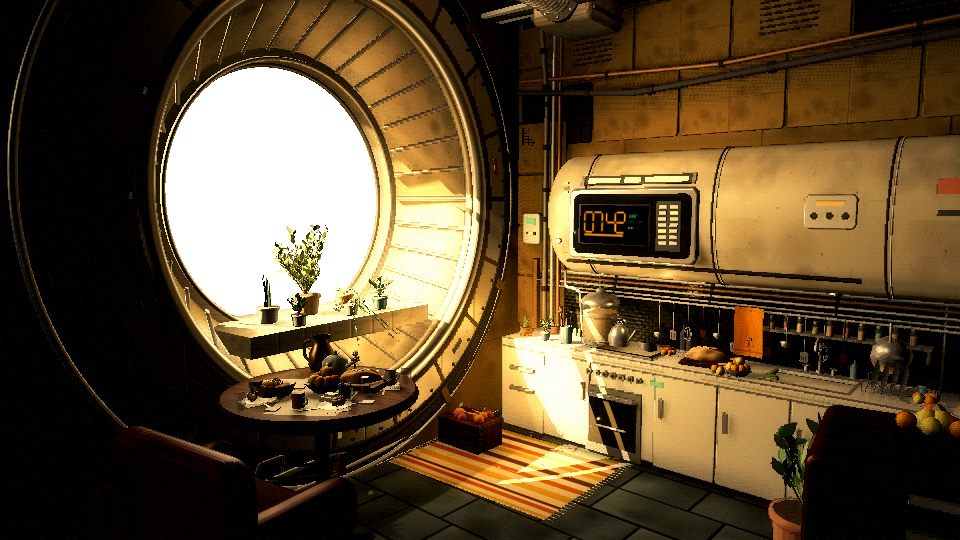
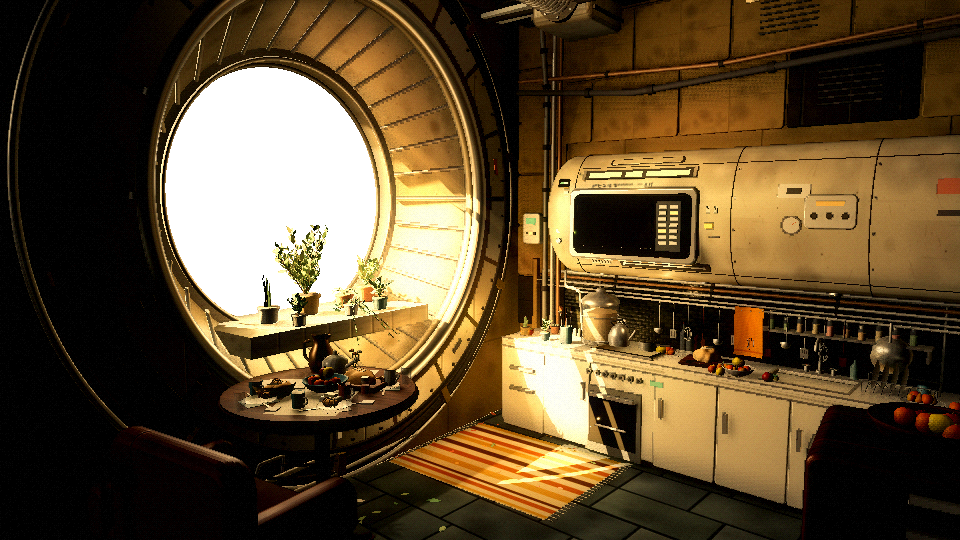
Title kitchen: real fruit, the reference's capsule panelling, blank screen, tidier floor
- Fruit: seven kinds (apple, pear, red pear, orange, lemon, pomegranate, mango) turned
  from real profiles (dimples, necks, crowns) with painted skins: blush, streaks,
  lenticels, pores and matching bump; stems, calyxes, the odd leaf. Bowls have walls.
- The capsule after the reference: seams on the curved skin, a hatch over the light bar,
  printed labels between bar and window, a recessed grip with a chrome bar in place of the
  long black slot, a vent grille, toggle switches, an orange push lamp, a lever, a round
  gauge, screws and plates. The oven screen is dark and blank.
- The potted bush moved from the floor to the window sill; the crate at the window's foot
  is gone. A 'bowl' close-up view for checking fruit.

Claude-Session: https://claude.ai/code/session_01AoroHLwCxsbXvPU1t255na

diff --git a/tools/title/kitchen.js b/tools/title/kitchen.js
@@ -122,6 +122,41 @@ const ROOM = (() => {
     for (let i = 0; i < 6; i++){ g.fillStyle = i < 2 ? '#7fd38a' : 'rgba(127,211,138,.2)'; g.fillRect(370 + i*20, 140, 12, 12); }
     for (let y = 0; y < 256; y += 3){ g.fillStyle = 'rgba(0,0,0,.18)'; g.fillRect(0, y, 512, 1); }
     const t = new C.CanvasTexture(c); t.encoding = C.sRGBEncoding; return t; })();
+  // fruit skins, drawn with their own random source (so adding them doesn't reshuffle the room): colour, blush, streaks,
+  // lenticels and pores, each with a matching height map for the bump. Canvas top is the fruit's top (stem end).
+  const FR = (() => { let q = 7; return () => (q = (q*16807) % 2147483647)/2147483647; })(), fr = (a, b) => a + FR()*(b - a);
+  function skin(kind){
+    const w = 512, h = 512, cc = document.createElement('canvas'), hc = document.createElement('canvas'); cc.width = hc.width = w; cc.height = hc.height = h;
+    const g = cc.getContext('2d'), gh = hc.getContext('2d'); gh.fillStyle = '#808080'; gh.fillRect(0, 0, w, h);
+    const band = (n, f) => { const ph = [fr(0, 6.3), fr(0, 6.3), fr(0, 6.3)]; return x => { const u = x/w*Math.PI*2; return Math.max(0, Math.min(1, .5 + .5*(Math.sin(u + ph[0]) + .5*Math.sin(2*u + ph[1]) + .3*Math.sin(3*u + ph[2]))*f)); }; };
+    const vgrad = (stops) => { const lg = g.createLinearGradient(0, 0, 0, h); for (const [t, c] of stops) lg.addColorStop(t, c); g.fillStyle = lg; g.fillRect(0, 0, w, h); };
+    const streaks = (col, amt, n, wmin, wmax) => { for (let i = 0; i < n; i++){ const x = fr(0, w), a = amt(x); if (a < .05) continue; g.strokeStyle = col(a*fr(.6, 1)); g.lineWidth = fr(wmin, wmax); g.beginPath(); g.moveTo(x, fr(0, h*.15)); g.bezierCurveTo(x + fr(-8, 8), h*.4, x + fr(-8, 8), h*.7, x + fr(-6, 6), fr(h*.85, h)); g.stroke(); } };
+    const dots = (n, col, r0, r1, bump, y0 = 0, y1 = 1) => { for (let i = 0; i < n; i++){ const x = fr(0, w), y = fr(y0*h, y1*h), r = fr(r0, r1); g.fillStyle = col; g.beginPath(); g.ellipse(x, y, r, r*fr(.6, 1), 0, 0, 7); g.fill(); if (bump){ gh.fillStyle = bump; gh.beginPath(); gh.arc(x, y, r*1.1, 0, 7); gh.fill(); } } };
+    const blotch = (n, col, r0, r1) => { for (let i = 0; i < n; i++){ const x = fr(0, w), y = fr(0, h), r = fr(r0, r1), gr = g.createRadialGradient(x, y, 0, x, y, r); gr.addColorStop(0, col); gr.addColorStop(1, 'rgba(0,0,0,0)'); g.fillStyle = gr; g.fillRect(x - r, y - r, 2*r, 2*r); } };
+    let rough = .45;
+    if (kind === 'apple'){ const red = band(1, 1.3);
+      vgrad([[0, '#c9b04a'], [.3, '#d8c060'], [1, '#c8a848']]);
+      for (let x = 0; x < w; x += 2){ g.fillStyle = 'rgba(186,48,28,' + (red(x)*.9).toFixed(3) + ')'; g.fillRect(x, 0, 2, h); }
+      streaks(a => 'rgba(150,24,14,' + (a*.35).toFixed(3) + ')', red, 140, .6, 2.5); blotch(16, 'rgba(120,20,10,.18)', 20, 70); streaks(a => 'rgba(230,190,80,' + ((1 - a)*.3).toFixed(3) + ')', x => 1 - red(x), 80, 1, 3);
+      vgrad([[0, 'rgba(210,190,80,.75)'], [.14, 'rgba(210,190,80,0)'], [.9, 'rgba(120,80,30,0)'], [1, 'rgba(120,80,30,.5)']]);
+      dots(260, 'rgba(240,220,150,.85)', .8, 1.8, '#9a9a9a', .1, .95); rough = .32; }
+    else if (kind === 'pear'){ const blush = band(1, .9);
+      vgrad([[0, '#a8a040'], [.5, '#cdbb58'], [1, '#c8a850']]);
+      for (let x = 0; x < w; x += 2){ g.fillStyle = 'rgba(196,90,50,' + (blush(x)*.55).toFixed(3) + ')'; g.fillRect(x, 0, 2, h); }
+      blotch(14, 'rgba(140,100,40,.25)', 10, 40); dots(900, 'rgba(110,80,40,.5)', .6, 1.4, '#909090'); dots(30, 'rgba(90,60,30,.6)', 2, 4, '#707070'); rough = .55; }
+    else if (kind === 'redpear'){ vgrad([[0, '#7a1a14'], [.5, '#a8281c'], [1, '#8e2018']]); streaks(a => 'rgba(200,90,50,' + (a*.25).toFixed(3) + ')', band(1, 1), 160, 1, 3); dots(500, 'rgba(220,170,120,.45)', .6, 1.3, '#909090'); rough = .38; }
+    else if (kind === 'orange'){ vgrad([[0, '#d8620c'], [.5, '#ec7a14'], [1, '#d86810']]); blotch(20, 'rgba(255,170,60,.18)', 20, 60); blotch(10, 'rgba(160,60,10,.15)', 20, 50);
+      for (let i = 0; i < 9000; i++){ const x = fr(0, w), y = fr(0, h); gh.fillStyle = FR() < .5 ? '#5a5a5a' : '#a0a0a0'; gh.fillRect(x, y, 2, 2); g.fillStyle = FR() < .5 ? 'rgba(150,60,10,.18)' : 'rgba(255,190,90,.14)'; g.fillRect(x, y, 1.5, 1.5); } rough = .5; }
+    else if (kind === 'lemon'){ vgrad([[0, '#c8b420'], [.5, '#ecd23a'], [1, '#d0b828']]); blotch(10, 'rgba(160,170,40,.2)', 20, 50);
+      for (let i = 0; i < 8000; i++){ const x = fr(0, w), y = fr(0, h); gh.fillStyle = FR() < .5 ? '#5a5a5a' : '#a8a8a8'; gh.fillRect(x, y, 2, 2); } rough = .42; }
+    else if (kind === 'pomegranate'){ vgrad([[0, '#8a1c12'], [.5, '#a82618'], [1, '#801a10']]); blotch(26, 'rgba(200,150,80,.28)', 8, 30); blotch(20, 'rgba(60,8,4,.25)', 10, 40);
+      for (let i = 0; i < 7000; i++){ const x = fr(0, w), y = fr(0, h); gh.fillStyle = FR() < .5 ? '#606060' : '#a0a0a0'; gh.fillRect(x, y, 2, 2); } rough = .3; }
+    else if (kind === 'mango'){ const red = band(1, 1.4); vgrad([[0, '#7a9a2a'], [.5, '#c8b030'], [1, '#e08a24']]);
+      for (let x = 0; x < w; x += 2){ g.fillStyle = 'rgba(200,70,30,' + (red(x)*.6).toFixed(3) + ')'; g.fillRect(x, 0, 2, h); }
+      dots(1400, 'rgba(240,220,130,.5)', .5, 1.1, '#909090'); rough = .4; }
+    const mk = (c, srgb) => { const t = new C.CanvasTexture(c); if (srgb) t.encoding = C.sRGBEncoding; t.anisotropy = 8; return t; };
+    return std({ map: mk(cc, true), bumpMap: mk(hc), bumpScale: kind === 'orange' || kind === 'lemon' || kind === 'pomegranate' ? .0012 : .0006, roughness: rough, metalness: 0 });
+  }
   const rugT = texSet(512, 512, (g, gh, w, h) => {
     const cols = ['#ead7a8', '#d9a84a', '#ead7a8', '#c8742e', '#f0e2bc', '#7a4a24'];
     for (let y = 0, k = 0; y < h; k++){ const sw = pick([22, 30, 14, 36]); g.fillStyle = cols[k % cols.length]; g.fillRect(0, y, w, sw); y += sw; }
@@ -186,7 +221,7 @@ const ROOM = (() => {
     tableWood: std({ map: planksT.map, bumpMap: planksT.bump, bumpScale: .006, roughness: .74, metalness: 0 }), darkWood: std({ map: woodT.map, color: 0x6a5048, roughness: .7, metalness: 0 }),
     counterTop: std({ map: topT.map, roughness: .28, metalness: 0 }), lcd: new C.MeshBasicMaterial({ map: lcdT, toneMapped: false, color: 0xd8d8d8 }),
     skin: withBump(skinT, { roughness: .42, metalness: .12 }, .004),
-    orange: std({ color: 0xe0600a, roughness: .55, bumpMap: dimpleT.bump, bumpScale: .004 }), lemon: std({ color: 0xf0c935, roughness: .5, bumpMap: dimpleT.bump, bumpScale: .004 }),
+    stem: std({ color: 0x5a3a1c, roughness: .8 }), orange: std({ color: 0xe0600a, roughness: .55, bumpMap: dimpleT.bump, bumpScale: .004 }), lemon: std({ color: 0xf0c935, roughness: .5, bumpMap: dimpleT.bump, bumpScale: .004 }),
     juice: std({ color: 0xf59a1e, roughness: .2, transparent: true, opacity: .9 }), jam: std({ color: 0x8e1f1a, roughness: .2 }), butter: std({ color: 0xf3df9a, roughness: .6 }),
     glazeTeal: std({ color: 0x3f6f7a, roughness: .25 }), glazeWhite: std({ color: 0xece6d6, roughness: .2 }), glazeOchre: std({ color: 0xc58a3a, roughness: .3 }),
     barGlow: new C.MeshBasicMaterial({ color: 0xffd896, toneMapped: false }), dimAmber: new C.MeshBasicMaterial({ color: 0x8a5a20, toneMapped: false }), dimGreen: new C.MeshBasicMaterial({ color: 0x3f7a4a, toneMapped: false }),
@@ -196,6 +231,7 @@ const ROOM = (() => {
   };
   R.M = M;
 
+  const FRUIT = {}; for (const k of ['apple', 'pear', 'redpear', 'orange', 'lemon', 'pomegranate', 'mango']) FRUIT[k] = [skin(k), skin(k), skin(k)];
   pom(M.floor, .006); pom(M.hull, .005); pom(M.cream, .004); pom(M.splash, .01); pom(M.darkMetal, .006); pom(M.rug, .012); pom(M.tableWood, .003); pom(M.leather, .006); pom(M.skin, .002);
   /* ---------- geometry helpers ---------- */
   let scene = null, parent = null;
@@ -257,18 +293,31 @@ const ROOM = (() => {
     }
   }
   function jar(x, y, z, h, r, fill, o = {}){ lathe([[0, 0], [r, 0], [r, h*.85], [r*.8, h*.92], [r*.8, h]], M.glass, x, y, z, Object.assign({ cast: false }, o)); if (fill) cyl(r*.9, r*.9, h*.6, fill, x, y + h*.3, z, Object.assign({ cast: false }, o)); cyl(r*.82, r*.82, .02, M.steel, x, y + h + .01, z, o); }
-  // an orange: a slightly squashed dimpled sphere with a calyx and sometimes a leaf; a lemon: a turned shape with pointed ends
+  // a fruit: a turned profile per kind (apple with its two dimples, pear's neck, pointed lemon, flat-ended orange, crowned
+  // pomegranate, kidney mango), its own painted skin, a stem, calyx or crown; small random lean and turn
+  const PROF = {
+    apple: [[0, .1], [.25, .03], [.55, .06], [.85, .3], [.98, .6], [1, .9], [.93, 1.25], [.75, 1.5], [.45, 1.62], [.2, 1.55], [.06, 1.42], [0, 1.4]],
+    pear: [[0, .05], [.35, 0], [.75, .15], [.93, .45], [.92, .8], [.75, 1.1], [.55, 1.35], [.45, 1.6], [.38, 1.85], [.25, 2.02], [.08, 2.08], [0, 2.06]],
+    orange: [[0, .06], [.4, 0], [.8, .18], [.98, .5], [1, .9], [.97, 1.25], [.8, 1.55], [.45, 1.74], [.1, 1.78], [0, 1.76]],
+    pomegranate: [[0, .05], [.4, 0], [.82, .2], [1, .55], [1.02, .95], [.92, 1.35], [.7, 1.6], [.4, 1.74], [.2, 1.76], [0, 1.75]],
+  };
+  PROF.redpear = PROF.pear;
   function fruit(x, y, z, r, mat, o = {}){
-    const m = mat || pick([M.orange, M.orange, M.orange, M.orange, M.lemon, M.fruit[2]]);
-    if (m === M.lemon){ const pts = []; for (let i = 0; i <= 16; i++){ const t = i/16, a = t*Math.PI; pts.push([Math.max(.0005, Math.sin(a)*r*(1 - .25*Math.pow(Math.abs(Math.cos(a)), 6))), -Math.cos(a)*r*1.35]); }
-      const f = lathe(pts, m, x, y + r, z, Object.assign({ seg: 40 }, o)); f.rotation.set(Math.PI/2, rnd()*6.3, 0); f.position.y = y + r; return f; }
-    const f = add(new C.SphereGeometry(r, 40, 28), m, x, y + r*.94, z, o); f.scale.y = .94; f.rotation.set(rr(-.3, .3), rnd()*6.3, rr(-.3, .3));
-    if (m === M.orange){ cyl(r*.09, r*.11, r*.08, M.calyx, x, y + r*1.86, z, { seg: 10, cast: false }); for (let k = 0; k < 5; k++){ const a = k/5*6.3; box(r*.12, r*.02, r*.05, M.calyx, x + Math.cos(a)*r*.1, y + r*1.85, z + Math.sin(a)*r*.1, { ry: -a, cast: false }); }
-      if (rnd() < .25){ const lf = add(LEAF[1], M.leafs[1], x, y + r*1.9, z, { s: r*14, cast: false }); lf.rotation.set(-1.1, rnd()*6.3, 0); } }
+    let kind = mat === M.orange ? 'orange' : mat === M.lemon ? 'lemon' : typeof mat === 'string' ? mat : null;
+    if (!kind){ const q = rnd(); kind = q < .38 ? 'orange' : q < .6 ? 'apple' : q < .72 ? 'pear' : q < .8 ? 'redpear' : q < .88 ? 'lemon' : q < .95 ? 'pomegranate' : 'mango'; }
+    const m = pick(FRUIT[kind]), ry = rnd()*6.3, lean = rr(-.15, .15);
+    if (kind === 'lemon'){ const pts = []; for (let i = 0; i <= 24; i++){ const t = i/24, a = t*Math.PI; pts.push([Math.max(.0005, Math.sin(a)*r*(1 - .28*Math.pow(Math.abs(Math.cos(a)), 6))), (1 - Math.cos(a))*r*1.35]); }
+      const f = lathe(pts, m, x, y + r*.95, z - r*1.35, Object.assign({ seg: 64 }, o)); f.rotation.set(Math.PI/2, 0, ry); f.position.set(x - Math.sin(ry)*0, y + r*.95, z); f.geometry.translate(0, -r*1.35, 0); return f; }
+    if (kind === 'mango'){ const f = add(new C.SphereGeometry(r, 64, 40), m, x, y + r*.82, z, o); f.scale.set(1.45, .82, .95); f.rotation.set(0, ry, .25); cyl(r*.08, r*.06, r*.12, M.stem, x + Math.cos(ry)*r*1.35, y + r*1.2, z - Math.sin(ry)*r*1.35, { seg: 10, cast: false }); return f; }
+    const sc = kind === 'pear' || kind === 'redpear' ? .82 : 1, f = lathe(PROF[kind].map(([a, b]) => [a*r*sc, b*r*sc]), m, x, y, z, Object.assign({ seg: 72 }, o)); f.rotation.set(lean, ry, rr(-.15, .15));
+    const top = y + PROF[kind][PROF[kind].length - 1][1]*r*sc;
+    if (kind === 'apple' || kind === 'pear' || kind === 'redpear'){ const l = kind === 'apple' ? r*.6 : r*.75; pipe([[x, top - r*.1, z], [x + r*.05, top + l*.5, z], [x + r*.18, top + l, z + r*.05]], r*.045, M.stem); if (rnd() < .3){ const lf = add(LEAF[1], M.leafs[0], x + r*.1, top + l*.6, z, { s: r*8, cast: false }); lf.rotation.set(-1.0, rnd()*6.3, 0); } }
+    else if (kind === 'orange'){ cyl(r*.1, r*.12, r*.07, M.calyx, x, top, z, { seg: 12, cast: false }); for (let k = 0; k < 5; k++){ const a = k/5*6.3; box(r*.13, r*.02, r*.05, M.calyx, x + Math.cos(a)*r*.11, top - r*.01, z + Math.sin(a)*r*.11, { ry: -a, cast: false }); } }
+    else if (kind === 'pomegranate'){ for (let k = 0; k < 6; k++){ const a = k/6*6.3; const c = add(new C.ConeGeometry(r*.07, r*.28, 6), m, x + Math.cos(a)*r*.12, top + r*.1, z + Math.sin(a)*r*.12, { cast: false }); c.rotation.set(Math.sin(a)*.5, 0, -Math.cos(a)*.5); } cyl(r*.15, r*.2, r*.12, m, x, top + .002, z, { seg: 16, cast: false }); }
     return f; }
   function plate(x, y, z, r, o = {}){ lathe([[0, 0], [r*.5, 0], [r*.55, .004], [r*.6, r*.03], [r*.62, r*.035], [r*.95, r*.11], [r, r*.13], [r*1.02, r*.13], [r*.99, r*.115], [r*.6, r*.045], [r*.55, r*.04], [0, r*.04]], M.ceramic, x, y, z, Object.assign({ cast: false }, o)); add(new C.TorusGeometry(r*.97, r*.006, 6, 64), M.gold, x, y + r*.125, z, { rx: Math.PI/2, cast: false }); }
   function fruitPlate(x, y, z, r, n, o = {}){ plate(x, y, z, r, o); for (let i = 0; i < n; i++){ const a = rnd()*7, d = rnd()*r*.55; fruit(x + Math.cos(a)*d, y + .012, z + Math.sin(a)*d, rr(.025, .04), null, o); } }
-  function bowl(x, y, z, r, n, mat, o = {}){ lathe([[0, 0], [r*.5, 0], [r, r*.5], [r*1.03, r*.53]], mat || M.ceramic, x, y, z, o); for (let i = 0; i < n; i++){ const a = rnd()*7, d = rnd()*r*.55; fruit(x + Math.cos(a)*d, y + r*.25 + rr(0, .03), z + Math.sin(a)*d, rr(.028, .042), null, o); } }
+  function bowl(x, y, z, r, n, mat, o = {}){ lathe([[0, 0], [r*.42, 0], [r*.42, r*.04], [r*.5, r*.05], [r*.8, r*.22], [r, r*.5], [r*1.03, r*.54], [r*1.0, r*.56], [r*.95, r*.52], [r*.75, r*.24], [r*.45, r*.1], [0, r*.1]], mat || M.ceramic, x, y, z, o); for (let i = 0; i < n; i++){ const a = rnd()*7, d = rnd()*r*.55; fruit(x + Math.cos(a)*d, y + r*.25 + rr(0, .03), z + Math.sin(a)*d, rr(.028, .042), null, o); } }
   // a loaf: a lumpy dome, three scored cuts that open paler crumb, flour dust
   function bread(x, y, z, l, o = {}){ const g = new C.SphereGeometry(l*.45, 40, 26), p = g.attributes.position;
     for (let i = 0; i < p.count; i++){ const vx = p.getX(i), vy = p.getY(i), vz = p.getZ(i), n = 1 + .05*Math.sin(vx*60 + vz*40) + .04*Math.sin(vz*75 - vy*30); p.setXYZ(i, vx*n, Math.max(vy, -l*.05)*n, vz*n); } g.computeVertexNormals();
@@ -311,7 +360,7 @@ const ROOM = (() => {
     // a flat sill across the funnel's foot, a chrome lip on it, and the pots standing on it
     { const sy = Y - 1.0; box(1.9, .16, .92, M.cream, 0, sy - .08, -.42);   // (wide enough to meet the funnel at both ends: no light slips round it) box(1.5, .03, .03, M.chrome, 0, sy - .01, .03, { cast: false }); box(1.9, .9, .03, M.hull, 0, sy - .47, .02); box(1.3, .012, .012, M.dark, 0, sy - .07, .04, { cast: false });   // (an apron closes the sill down to the funnel)
       plant(-.08, sy, -.44, .62, 'herb', M.basket); plant(-.08, sy, -.44, .55, 'tree', null); plant(-.52, sy, -.36, .46, 'snake', M.glazeWhite); plant(.36, sy, -.46, .44, 'fern', M.pot);
-      plant(.5, sy, -.14, .38, 'flower', M.glazeTeal); plant(.12, sy, -.1, .34, 'trail', M.glazeWhite); plant(-.45, sy, -.06, .32, 'herb', M.steel); }
+      plant(.5, sy, -.14, .38, 'flower', M.glazeTeal); plant(.12, sy, -.1, .34, 'trail', M.glazeWhite); plant(-.45, sy, -.06, .32, 'herb', M.steel); plant(.74, sy, -.58, .55, 'bush'); }
     for (let k = 0; k < 0; k++){ const a = Math.PI*(1.1 + k*.045); const lz = -rr(.05, .45), lr = rAt(lz) - .05; const lf = add(pick(LEAF), pick(M.leafs), Math.cos(a)*lr, Y + Math.sin(a)*lr, lz, { s: rr(1, 1.8) }); lf.rotation.set(rnd()*6, rnd()*6, rnd()*6); }
     // the hull's foot below the window: a cream apron bulging out, chrome pipes with grab handles along it, a latch
     // (the old curved apron at the hull's foot is gone: turned with the wall it lay across the floor as a sliver)
@@ -335,7 +384,7 @@ const ROOM = (() => {
       plate(px, TY + .005, pz, .1); croissant(px, TY + .02, pz, rnd()*6);
       for (const sd of [-1, 1]) box(.012, .004, .14, M.steel, px + Math.cos(ta)*sd*.13, TY + .007, pz + Math.sin(ta)*sd*.13, { ry: -a, cast: false });
       juice(px + Math.cos(a - .5)*.16, TY, pz + Math.sin(a - .5)*.16); box(.07, .01, .07, std({ color: 0xf4efe2, roughness: .95 }), px + Math.cos(ta)*-.2, TY + .005, pz + Math.sin(ta)*-.2, { ry: .3 }); }
-    bowl(T.x + .05, TY, T.z + .02, .14, 0, M.glazeTeal); for (let i = 0; i < 9; i++){ const a = i/9*6.3, d = i < 6 ? .07 : .02; fruit(T.x + .05 + Math.cos(a)*d, TY + .045 + (i < 6 ? 0 : .04), T.z + .02 + Math.sin(a)*d, .036, i % 4 === 3 ? M.lemon : M.orange); }
+    bowl(T.x + .05, TY, T.z + .02, .14, 0, M.glazeTeal); { const K = ['orange', 'apple', 'orange', 'redpear', 'orange', 'apple', 'pomegranate', 'orange', 'lemon']; for (let i = 0; i < 9; i++){ const a = i/9*6.3, d = i < 6 ? .075 : .02; fruit(T.x + .05 + Math.cos(a)*d, TY + .03 + (i < 6 ? 0 : .055), T.z + .02 + Math.sin(a)*d, .036, K[i]); } }
     lathe([[0, 0], [.1, 0], [.13, .07], [.135, .08]], M.basket, T.x - .2, TY, T.z + .2); for (let i = 0; i < 3; i++) bread(T.x - .2 + rr(-.05, .05), TY + .03, T.z + .2 + rr(-.05, .05), .11); croissant(T.x - .17, TY + .05, T.z + .16, 1);
     jar(T.x + .3, TY, T.z - .05, .08, .03, M.jam); add(rbox(.11, .03, .07, .01), M.glazeWhite, T.x + .22, TY + .015, T.z + .2); box(.07, .025, .045, M.butter, T.x + .22, TY + .042, T.z + .2, { cast: false });
     lathe([[0, 0], [.025, 0], [.03, .05], [.015, .1], [.017, .11]], M.glass, T.x + .12, TY, T.z - .2, { cast: false }); for (let k = 0; k < 4; k++){ const fx = T.x + .12 + rr(-.04, .04), fz = T.z - .2 + rr(-.04, .04), fy = TY + rr(.16, .22); pipe([[T.x + .12, TY + .08, T.z - .2], [fx, fy, fz]], .002, M.leafs[0]); for (let q = 0; q < 5; q++){ const qa = q/5*6.3; add(new C.SphereGeometry(.009, 6, 4), M.petal[k % 2 ? 1 : 3], fx + Math.cos(qa)*.01, fy, fz + Math.sin(qa)*.01, { cast: false }); } }
@@ -431,8 +480,8 @@ const ROOM = (() => {
     { const bx = 2.08, bz = .38; add(rbox(.44, .025, .28, .012), M.wood, bx, TT + .012, bz, { ry: .12 }); bread(bx - .04, TT + .025, bz - .02, .26);   // the bread board: a loaf, a slice, a knife, crumbs
       box(.1, .012, .08, M.crumb, bx + .14, TT + .03, bz + .05, { ry: .3 }); box(.22, .003, .028, M.steel, bx + .06, TT + .03, bz + .1, { ry: .45 }); add(rbox(.09, .018, .024, .006), M.darkWood, bx - .1, TT + .033, bz + .14, { ry: .45 });
       for (let i = 0; i < 14; i++) box(.006, .004, .006, M.crumb, bx + rr(-.18, .2), TT + .027, bz + rr(-.1, .12), { cast: false }); }
-    { bowl(2.38, TT, .56, .12, 0, M.glazeWhite); for (let i = 0; i < 8; i++){ const a = i/8*6.3, d = i < 5 ? .06 : .015; fruit(2.38 + Math.cos(a)*d, TT + .03 + (i < 5 ? 0 : .045), .56 + Math.sin(a)*d, .036, i % 4 === 3 ? M.lemon : M.orange); }
-      fruit(2.22, TT, .62, .036, M.orange); fruit(2.28, TT, .67, .032, M.lemon); }
+    { bowl(2.38, TT, .56, .12, 0, M.glazeWhite); { const K = ['orange', 'apple', 'pear', 'orange', 'mango', 'lemon', 'orange', 'apple']; for (let i = 0; i < 8; i++){ const a = i/8*6.3, d = i < 5 ? .065 : .015; fruit(2.38 + Math.cos(a)*d, TT + .02 + (i < 5 ? 0 : .05), .56 + Math.sin(a)*d, .036, K[i]); } }
+      fruit(2.2, TT, .62, .036, 'apple'); fruit(2.28, TT, .67, .032, 'lemon'); fruit(2.62, TT, .6, .04, 'pomegranate'); }
     { const rx = 3.45, rz = .32;   // the dish rack: a wire frame, plates on edge, a mug upside down, cutlery in a cup
       for (const dz of [-.12, .12]) pipe([[rx - .22, TT + .005, rz + dz], [rx - .22, TT + .1, rz + dz], [rx + .22, TT + .1, rz + dz], [rx + .22, TT + .005, rz + dz]], .004, M.steel);
       for (let k = 0; k < 9; k++) pipe([[rx - .2 + k*.05, TT + .01, rz - .12], [rx - .2 + k*.05, TT + .06, rz], [rx - .2 + k*.05, TT + .01, rz + .12]], .003, M.steel);
@@ -448,26 +497,50 @@ const ROOM = (() => {
     const AY = 1.65, AH = 1.13, AD = .62, AX0 = .4, AX1 = 4.4, AR = AH/2, ACY = AY + AR, AZ = AD/2 + .02, SZ = AD/AH;
     const zf = dy => AZ + SZ*Math.sqrt(Math.max(0, AR*AR - dy*dy)), tilt = dy => Math.atan(dy/Math.sqrt(Math.max(.001, AR*AR - dy*dy))*SZ);
     { const g = new C.CylinderGeometry(AR, AR, AX1 - AX0 - .3, 72, 1, true); g.rotateZ(Math.PI/2); add(g, M.skin, (AX0 + .3 + AX1)/2, ACY, AZ).scale.z = SZ;
-      const e = add(new C.SphereGeometry(AR, 48, 32), M.skin, AX0 + .3, ACY, AZ); e.scale.set(.55, 1, SZ);
-      for (const x of [.95, 2.15, 3.35]){ const t = new C.TorusGeometry(AR + .002, .009, 6, 72); t.rotateY(Math.PI/2); add(t, M.dark, x, ACY, AZ, { cast: false }).scale.z = SZ; }
-      for (const x of [.98, 2.18, 3.38]){ const t = new C.TorusGeometry(AR + .004, .006, 6, 72); t.rotateY(Math.PI/2); add(t, M.creamPlain, x, ACY, AZ, { cast: false }).scale.z = SZ; } }
-    { const dy = .31, y = ACY + dy, z = zf(dy), th = tilt(dy);
+      const e = add(new C.SphereGeometry(AR, 48, 32), M.skin, AX0 + .3, ACY, AZ); e.scale.set(.55, 1, SZ); }
+
+
+    { const dy = .36, y = ACY + dy, z = zf(dy), th = tilt(dy);
       box(1.04, .085, .03, M.dark, 1.45, y, z - .005, { rx: -th, cast: false }); for (const x of [.92, 1.98]) box(.03, .095, .04, M.chrome, x, y, z, { rx: -th, cast: false });
       for (const [x0, x1] of [[.97, 1.3], [1.34, 1.5], [1.54, 1.93]]) box(x1 - x0, .05, .02, M.barGlow, (x0 + x1)/2, y, z + .004, { rx: -th, cast: false });
       const l = new C.PointLight(0xffc878, .35, 1.4, 2); l.position.set(1.45, y + .02, z + .2); kit.add(l);
-      const lb = new C.Mesh(new C.PlaneGeometry(.9, .11), M.label); lb.position.set(1.6, ACY + .17, zf(.17) + .004); lb.rotation.x = -tilt(.17); kit.add(lb); }
+      const lb = new C.Mesh(new C.PlaneGeometry(.62, .075), M.label); lb.position.set(1.32, ACY + .265, zf(.265) + .004); lb.rotation.x = -tilt(.265); kit.add(lb); }
     { const wx = 1.42, wy = ACY - .08, z = zf(-.08) - .01;
       add(rbox(1.2, .6, .06, .05), M.chrome, wx, wy, z); add(rbox(1.1, .5, .06, .045), M.blackGlass, wx, wy, z + .012);
       box(.72, .36, .01, std({ color: 0x0f0e0b, roughness: .25 }), wx - .14, wy, z + .045, { cast: false });
-      { const sc = new C.Mesh(new C.PlaneGeometry(.68, .34), M.lcd); sc.position.set(wx - .14, wy, z + .051); kit.add(sc); }
+      add(rbox(.74, .38, .02, .02), M.blackGlass, wx - .14, wy, z + .046);   // the screen, dark and blank
       box(.22, .42, .012, std({ color: 0x1c1a16, roughness: .4 }), wx + .38, wy, z + .045, { cast: false });
       for (let k = 0; k < 14; k++){ const bx = wx + .33 + (k % 2)*.1, by = wy + .16 - Math.floor(k/2)*.05; box(.07, .03, .01, k === 3 || k === 8 ? M.lampGlow : M.creamPlain, bx, by, z + .052, { cast: false }); } }
     { const z = zf(0) - .02;
       for (let k = 0; k < 9; k++) box(.05, .022, .012, k % 4 === 1 ? M.dimAmber : M.creamPlain, .74, ACY + .3 - k*.045, z, { cast: false });
       for (let k = 0; k < 3; k++) cyl(.026, .026, .03, M.chrome, .66, ACY - .05 - k*.1, z - .01, { rx: Math.PI/2, seg: 16 });
-      for (const [y, c] of [[ACY - .36, 0xf08a24], [ACY - .36, 0xf0b040]]) box(.07, .04, .02, std({ color: c, emissive: c, emissiveIntensity: .8 }), c === 0xf08a24 ? .7 : .8, y, zf(-.36) - .015, { rx: tilt(-.36), cast: false });
-      for (let k = 0; k < 6; k++) box(.12, .008, .01, M.dark, .9, ACY - .25 - k*.025, zf(-.3) - .01, { rx: tilt(-.3), cast: false }); }
-    { const dy = -.43, z = zf(dy); box(2.5, .05, .03, M.dark, 1.95, ACY + dy, z - .01, { rx: tilt(dy), cast: false }); box(2.3, .012, .01, M.steel, 1.95, ACY + dy + .035, z, { rx: tilt(dy), cast: false }); }
+      for (const [y, c] of [[ACY - .36, 0xf08a24], [ACY - .36, 0xf0b040]]) box(.07, .04, .02, std({ color: c, emissive: c, emissiveIntensity: .8 }), c === 0xf08a24 ? .7 : .8, y, zf(-.36) - .015, { rx: -tilt(-.36), cast: false });
+    }
+    // the reference's capsule panelling, all laid on the curved skin: seams, a hatch, a recessed grip, vents, switches, a gauge, screws, stickers
+    { const on = (x, dy, w, h, d, mat, lift = 0, o = {}) => box(w, h, d, mat, x, ACY + dy, zf(dy) + lift, Object.assign({ rx: -tilt(dy), cast: false }, o));
+      const onR = (x, dy, w, h, d, r, mat, lift = 0) => { const m = add(rbox(w, h, d, r), mat, x, ACY + dy, zf(dy) + lift, { cast: false }); m.rotation.x = -tilt(dy); return m; };
+      const screw = (x, dy) => { const m = cyl(.009, .009, .006, M.steel, x, ACY + dy, zf(dy) + .002, { seg: 12, cast: false }); m.rotation.x = Math.PI/2 - tilt(dy); on(x, dy, .012, .002, .002, M.dark, .0055); };
+      const vseam = (x, a0, a1) => { const g = new C.TorusGeometry(AR + .001, .0045, 6, 96, a1 - a0); g.rotateZ(Math.PI/2 + a0); g.rotateY(Math.PI/2); add(g, M.dark, x, ACY, AZ, { cast: false }).scale.z = SZ; };
+      // seams: the end cap's flat face, between the window bay and the right panels, two more along; the top band and the belly band
+      vseam(.83, -.15, Math.PI + .15); vseam(2.3, .05, Math.PI - .05); vseam(3.25, -.05, Math.PI + .05);
+      for (const dy of [.43, -.47]) on(2.6, dy, 3.6, .007, .003, M.dark, .001);
+      for (const x of [.83, 2.3, 3.25]) for (const dy of [-.35, -.1, .15, .38]) screw(x + .025, dy);
+      // the hatch above the light bar
+      onR(1.5, .475, .7, .06, .01, .02, M.dark, -.002); onR(1.5, .475, .66, .045, .012, .016, M.skin, .0); screw(1.2, .475); screw(1.8, .475);
+      // the recessed grip under the window: a dark well, a chrome bar on two posts
+      onR(1.7, -.42, .82, .07, .02, .025, M.dark, -.006); on(1.7, -.42, .74, .016, .022, M.chrome, .01); for (const dx of [-.37, .37]) on(1.7 + dx, -.42, .02, .03, .03, M.chrome, .006);
+      // a vent grille to its left, slots in a frame
+      onR(1.08, -.42, .2, .06, .008, .01, M.creamPlain, .002); for (let k = 0; k < 6; k++) on(1.0 + k*.032, -.42, .012, .04, .004, M.dark, .006);
+      // right of the window: two toggle switches, an orange push lamp, a lever, a round gauge, small plates
+      for (const [x, dy] of [[2.12, .06], [2.18, .06]]){ on(x, dy, .03, .06, .008, M.creamPlain, .002); const t = cyl(.005, .005, .035, M.chrome, x, ACY + dy + .015, zf(dy) + .02, { seg: 8, cast: false }); t.rotation.x = .9; }
+      onR(2.13, -.07, .06, .035, .02, .01, std({ color: 0xf07a1a, emissive: 0xf07a1a, emissiveIntensity: .7 }), .006); on(2.18, -.16, .08, .012, .02, M.chrome, .008);
+      { const gx = 2.75, gy = -.05, z = zf(gy) + .004, rx = -tilt(gy); for (const [r, d, m] of [[.07, .012, M.chrome], [.058, .014, std({ color: 0xe8e0c8, roughness: .3 })]]){ const c = cyl(r, r, d, m, gx, ACY + gy, z + d/2, { seg: 48, cast: false }); c.rotation.x = Math.PI/2 + rx; }
+        for (let k = 0; k < 9; k++){ const a = -2.4 + k*.6; on(gx + Math.cos(a)*.045, gy + Math.sin(a)*.045, .004, .012, .002, M.dark, .015, { rz: a + Math.PI/2 }); } on(gx + .015, gy + .01, .04, .004, .003, M.fruit[2], .017, { rz: .6 }); }
+      onR(2.75, .2, .22, .1, .006, .01, M.creamPlain, .002); onR(2.75, .2, .1, .04, .004, .006, M.dark, .004);
+      // the left end's face: a small screen, a column of buttons, two big knobs, the orange lamps, a slot vent (laid on the skin this time)
+      onR(.7, .3, .12, .07, .008, .01, M.blackGlass, .002); on(.7, .3, .08, .012, .002, M.dimGreen, .007);
+      for (let k = 0; k < 4; k++) on(.88, .02 - k*.06, .05, .012, .002, M.dark, .002);
+      for (const dy of [-.24, -.3, -.36]) on(.88, dy, .1, .008, .004, M.dark, .002); }
     for (const [x, y, w, h, c] of [[3.7, ACY + .22, .18, .1, 0xd6573b], [3.95, ACY + .2, .12, .07, 0x3f6f7a], [3.75, ACY + .05, .25, .04, 0x2c2a26], [4.1, ACY - .1, .1, .1, 0xe0c27a]]){ const dy = y - ACY; box(w, h, .004, std({ color: c, roughness: .5 }), x, y, zf(dy) + .002, { rx: -tilt(dy), cast: false }); }
     { const z = zf(.05); add(rbox(.32, .22, .03, .03), M.creamPlain, 3.0, ACY + .05, z - .005); for (let k = 0; k < 3; k++) cyl(.022, .022, .025, M.dark, 2.9 + k*.1, ACY + .02, z + .012, { rx: Math.PI/2, seg: 12 }); box(.18, .04, .01, M.dimAmber, 3.0, ACY + .11, z + .012, { cast: false }); }
     // the wall beside the capsule, between it and the porthole: olive plates, a conduit with clamps, a cable, a small control box
@@ -491,8 +564,6 @@ const ROOM = (() => {
     for (let k = 0; k < 40; k++){ const lf = add(pick(LEAF), pick([M.fruit[0], M.fruit[4], M.leafs[3], M.bread, M.fruit[2]]), rr(-1.0, 1.2), .01, rr(-5.6, -3.8), { s: rr(.5, 1.0), cast: false }); lf.rotation.set(-Math.PI/2 + rr(-.2, .2), 0, rnd()*6); }
     { parent = null;
       for (let k = 0; k < 26; k++){ const a = rnd()*6.3, d = Math.sqrt(rnd())*1.1, lf = add(pick(LEAF), pick([M.leafs[0], M.leafs[3], M.petal[0], M.petal[1], M.leafs[5]]), -.45 + Math.cos(a)*d, .006, -2.27 + Math.sin(a)*d, { s: rr(.8, 1.4), cast: false }); lf.rotation.set(-Math.PI/2 + rr(-.2, .2), 0, rnd()*6.3); }
-      const cx = -.38, cz = -4.5; add(rbox(.5, .26, .36, .02), M.wood, cx, .13, cz, { ry: -.34 }); for (let k = 0; k < 5; k++) box(.5, .012, .02, M.dark, cx, .05 + k*.05, cz + .17, { ry: -.34, cast: false });
-      for (let k = 0; k < 9; k++){ const fx = cx + rr(-.18, .18), fz = cz + rr(-.12, .12); if (k % 3 === 0){ const ca = add(new C.ConeGeometry(.025, .16, 8), std({ color: 0xe0782a, roughness: .6 }), fx, .3, fz, { rz: rr(1.2, 1.9) }); } else fruit(fx, .24, fz, rr(.04, .055), k % 3 === 1 ? std({ color: 0x8a2a3a, roughness: .4 }) : M.orange); }
       for (const sd of [-1, 1]){ const sx = 1.25 + sd*.07, sz = -2.0; add(rbox(.1, .045, .26, .04), std({ color: 0x9a4a3a, roughness: .9 }), sx, .023, sz, { ry: .5 + sd*.12 }); }
       lathe([[0, 0], [.09, 0], [.1, .18], [.07, .2], [0, .2]], M.glazeTeal, .5, 0, -1.25); pipe([[.59, .14, -1.25], [.72, .26, -1.25], [.78, .3, -1.25]], .012, M.glazeTeal); add(new C.TorusGeometry(.07, .01, 6, 16, Math.PI), M.glazeTeal, .5, .2, -1.25, { ry: Math.PI/2 }); }
     // the orange chair at the left edge, the brown cabinet at the right with a bowl of fruit, a plant at its foot
@@ -505,7 +576,7 @@ const ROOM = (() => {
     parent = G.cabinet;
     { const bx = 2.15, bz = -3.0; add(rbox(.8, .86, .7, .03), M.brownCab, bx, .43, bz); box(.74, .025, .64, M.wood, bx, .87, bz); for (let k = 0; k < 3; k++){ add(rbox(.02, .24, .62, .01), M.brownCab, bx - .41, .18 + k*.27, bz); box(.03, .02, .2, M.chrome, bx - .43, .26 + k*.27, bz); }
       for (let k = 0; k < 3; k++) box(.02, .02, .55, M.dark, bx - .41, .2 + k*.22, bz, { cast: false });
-      bowl(bx - .05, .88, bz + .05, .2, 11, M.wood); plant(bx - .5, 0, bz - .55, .9, 'bush'); }
+      bowl(bx - .05, .88, bz + .05, .2, 11, M.wood); }
     parent = null;
     // the title sign (outside the reference's frame; seen in the wide view): on the kitchen wall past the capsule
     // the sign is off the wall for now (R.noSign): it is still made, so the bake's on/off swap has something to hold

diff --git a/tools/title/bake.html b/tools/title/bake.html
@@ -24,6 +24,7 @@ const VIEWS = SCENE === 'kitchen' ? {
   hi: { w: 1200, h: 1500, pos: [2.0, 2.33, 1.01], look: [-1.79, 1.28, -8.18], fov: 57.5 },   // (checking views: the reference at twice the size, and close-ups)
   counter: { w: 960, h: 600, pos: [.56, 1.55, -2.98], look: [1.23, 1.15, -4.86], fov: 50 },
   table: { w: 800, h: 600, pos: [.9, 1.85, -1.0], look: [-.45, 1.1, -2.27], fov: 48 },
+  bowl: { w: 800, h: 600, pos: [2.0, 1.22, -3.9], look: [2.0, .98, -4.42], fov: 28 },
   sill: { w: 800, h: 600, pos: [.4, 2.0, -2.5], look: [-1.43, 1.45, -3.54], fov: 46 },
 } : {
   wide: { w: 960, h: 540, pos: [1.7, 1.42, 2.35], look: [-.75, 1.5, -2], fov: 64 },

diff --git a/js/title.js b/js/title.js
@@ -14,7 +14,7 @@ const TITLE = (() => {
   const menu = root.querySelector('.t-menu'), panel = $t('tCities');
   const gD = cvDust.getContext('2d');
   const reduced = matchMedia('(prefers-reduced-motion: reduce)').matches;
-  const VER = '2026-10-18d';
+  const VER = '2026-10-18e';
   let A = null, view = null, W = 0, H = 0, S0 = 1, OX = 0, OY = 0, raf = 0, last = 0, motes = [];
   const anchorsP = fetch('assets/title/anchors.json?v=' + VER).then(r => r.json()).catch(() => null);
 
